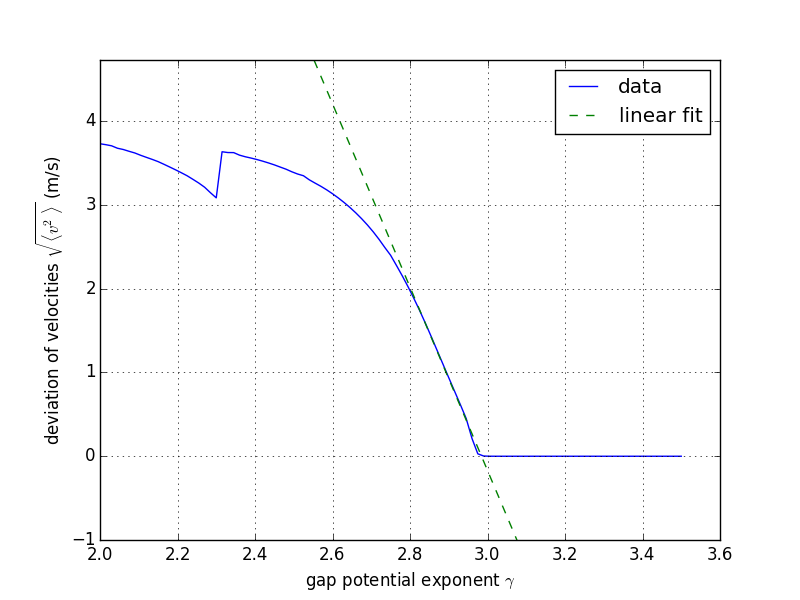
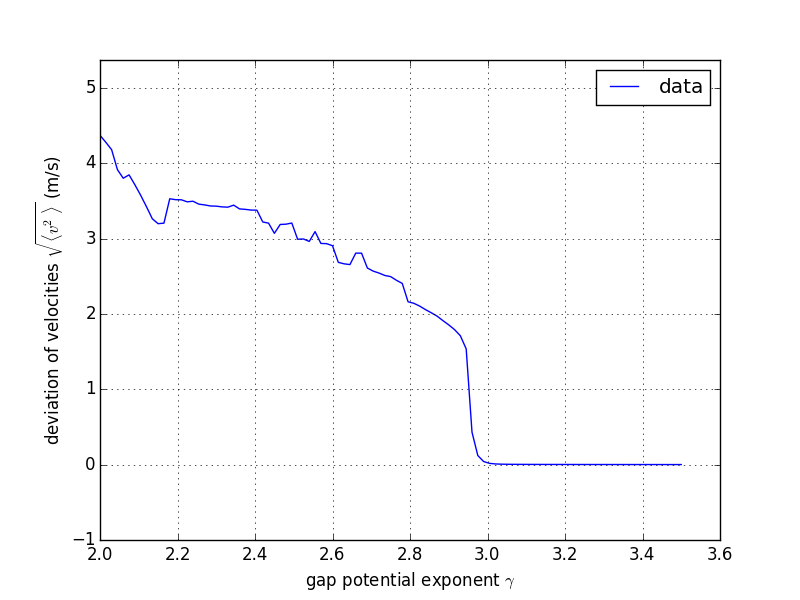
Rerun order_parameter with 10x longer road

diff --git a/code/measurements/order_parameter.py b/code/measurements/order_parameter.py
@@ -6,8 +6,8 @@ from paths import SETTINGS_PATH, OUTPUT_PATH, SIM_PATH, SIM_WD
 from common import parse_output
 
 SETTINGS_TEMPLATE = """
-N_CARS    = 50
-ROAD_LENGTH = 1000
+N_CARS    = 500
+ROAD_LENGTH = 10000
 VMAX      = 15
 MIN_DIST  = 2
 TIME_HEAD = 1.5
@@ -65,7 +65,7 @@ def make_plot():
     idx = np.where(np.logical_and(2.8 <= gammas, gammas <= 3) )
     a, b = np.polyfit(gammas[idx], np.sqrt(variances)[idx], 1)
     xx = np.linspace(2.,3.5, 2)
-    plt.plot(xx, a*xx+b, "g--", label="linear fit")
+    #plt.plot(xx, a*xx+b, "g--", label="linear fit")
     plt.grid(True)
     plt.legend(loc="best")
     plt.savefig("order_parameter.png")
@@ -74,6 +74,6 @@ def make_plot():
     
     
 if __name__ == "__main__":
-    compute_variances()
+    #○compute_variances()
     make_plot()
 
